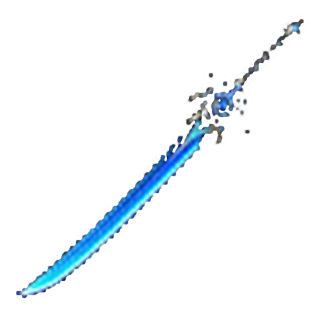
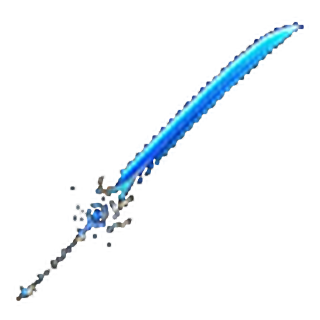
fix(battle-sprite): per-combo component naming, sword orientation bug, asset resync
Reverts the generic BattleIdleSprite.jsx auto-discovery approach in favor of the
project's established per-faction-tier-job file convention: lv1battlearctronwarrior.jsx
dedicated to Arctron Warrior tier1 only, explicitly routed from PilotSprites.jsx with
a static-pose fallback.

Root-caused the "equipped weapon looks wrong" issue: 3 of the 4 randomly-selected
tier-1 sword art variants were authored 180 degrees opposite of sword1.png, so no
single calibration could ever be correct for all of them (this likely also affected
the pre-existing static gear-overlay system). Fixed at the asset level.

animation-lab.html: added a Project-name export prefix so future faction/tier/job
exports don't collide with generic filenames; fixed Apply-To-All-Frames to clone
the layer's image+mask, not just its transform.

Re-synced weapon_shield_layers.json + spritesheet_fixed.png, which had drifted to
mismatched dimensions/frame-counts from parallel manual edits, back to a consistent
pair derived from the latest known-good animation-lab project state.

Changed region(s): [[0.0312, 0.0625, 0.9688, 0.9375], [0.75, 0.4062, 0.7812, 0.4375], [0.2188, 0.5625, 0.25, 0.5938]]

diff --git a/src/components/lv1battlearctronwarrior.jsx b/src/components/lv1battlearctronwarrior.jsx
@@ -1,7 +1,14 @@
 import React, { useEffect, useRef, useState } from 'react'
 import { resolveItemImage } from '../store/gameStore'
 
-// Tier1 Arctron Warrior battle-idle animation
+// Battle-idle animation for Arctron Warrior, tier lv1 only — authored in
+// public/animation-lab.html and exported as a body spritesheet + a JSON of
+// per-frame weapon/shield pixel offsets, so the currently equipped weapon/shield
+// render on top each frame instead of being baked into the body art.
+// Per-combo dedicated file by design (not a shared generic component) — every
+// other race/lane/tier gets its own equivalent file, e.g. lv1battlearctronranger.jsx,
+// lv32battlearctronwarrior.jsx, following the same {tier}{purpose}{race}{lane}.jsx
+// naming convention.
 const BATTLE_DIR = '/assets/arctron/def_warrior_armor_set_lv1/Battle-Sprites-lv1-arctronwarrior'
 const SHEET_URL = `${BATTLE_DIR}/spritesheet_fixed.png`
 const DATA_URL = `${BATTLE_DIR}/weapon_shield_layers.json`
@@ -25,11 +32,11 @@ function loadImage(src) {
   return p
 }
 
-export default function ArctronBattleIdleSprite({ player, width, height, className, style }) {
-  const NATIVE_W = 611, NATIVE_H = 695, TARGET_H = 160
+export default function Lv1BattleArctronWarrior({ player, width = 190, height, className, style, fallback = null }) {
   const canvasRef = useRef(null)
   const [rigData, setRigData] = useState(null)
   const [sheetImg, setSheetImg] = useState(null)
+  const [unavailable, setUnavailable] = useState(false)
   const frameIndexRef = useRef(0)
   const weaponImgRef = useRef(null)
   const shieldImgRef = useRef(null)
@@ -42,20 +49,22 @@ export default function ArctronBattleIdleSprite({ player, width, height, classNa
 
   useEffect(() => {
     let cancelled = false
-    Promise.all([
-      fetch(DATA_URL).then(r => r.json()),
-      loadImage(SHEET_URL)
-    ]).then(([json, img]) => {
-      if (cancelled) return
-      setRigData(json)
-      setSheetImg(img)
-    })
+    fetch(DATA_URL)
+      .then(r => { if (!r.ok) throw new Error('missing rig'); return r.json() })
+      .then(async (json) => {
+        if (cancelled) return
+        const img = await loadImage(SHEET_URL)
+        if (cancelled) return
+        if (!img) { setUnavailable(true); return }
+        setRigData(json)
+        setSheetImg(img)
+      })
+      .catch(() => { if (!cancelled) setUnavailable(true) })
     return () => { cancelled = true }
   }, [])
 
   useEffect(() => {
     let cancelled = false
-    // Load equipped weapon/shield sprites
     const weaponUrl = weaponItem ? proxyUrl(resolveItemImage(weaponItem, race, job, gender) || weaponItem.image) : null
     const shieldUrl = shieldItem ? proxyUrl(resolveItemImage(shieldItem, race, job, gender) || shieldItem.image) : null
     Promise.all([loadImage(weaponUrl), loadImage(shieldUrl)]).then(([w, s]) => {
@@ -81,9 +90,6 @@ export default function ArctronBattleIdleSprite({ player, width, height, classNa
 
     function drawGear(info, img, refWidth) {
       if (!info || !img) return
-      // Calibration was done against a specific reference art asset — normalize by
-      // width ratio so a differently-sized equipped weapon/shield image still lands
-      // at the same effective on-screen footprint instead of the raw calibrated scale.
       const normScale = info.scale * (refWidth / img.naturalWidth)
       ctx.save()
       ctx.translate(info.x, info.y)
@@ -98,11 +104,8 @@ export default function ArctronBattleIdleSprite({ player, width, height, classNa
     function drawFrame(idx) {
       ctx.clearRect(0, 0, fw, fh)
       ctx.drawImage(sheetImg, idx * fw, 0, fw, fh, 0, 0, fw, fh)
-
       const frameData = frames[idx]
       if (!frameData) return
-      // Sandwich order matches the authoring tool: back gear -> (base_front, none
-      // exported yet for this rig) -> front gear.
       if (frameData.weapon && !frameData.weapon.front) drawGear(frameData.weapon, weaponImgRef.current, calibrationRefWeaponWidth || 553)
       if (frameData.shield && !frameData.shield.front) drawGear(frameData.shield, shieldImgRef.current, calibrationRefShieldWidth || 390)
       if (frameData.weapon && frameData.weapon.front) drawGear(frameData.weapon, weaponImgRef.current, calibrationRefWeaponWidth || 553)
@@ -121,16 +124,16 @@ export default function ArctronBattleIdleSprite({ player, width, height, classNa
     return () => cancelAnimationFrame(raf)
   }, [rigData, sheetImg, weaponItem?.id, shieldItem?.id])
 
+  if (unavailable) return fallback
   if (!rigData) return null
 
-  const displayHeight = height || TARGET_H
-  const displayWidth = width || (TARGET_H * NATIVE_W / NATIVE_H)
+  const displayHeight = height || (width * rigData.frameHeight / rigData.frameWidth)
 
   return (
     <canvas
       ref={canvasRef}
       className={className}
-      style={{ width: displayWidth, height: displayHeight, imageRendering: 'auto', ...style }}
+      style={{ width, height: displayHeight, imageRendering: 'auto', ...style }}
     />
   )
 }

diff --git a/src/components/PilotSprites.jsx b/src/components/PilotSprites.jsx
@@ -8,7 +8,7 @@ import ArctronSprite from './ArctronSprite'
 import BionexSprite from './BionexSprite'
 import CelestraSprite from './CelestraSprite'
 import EnemySprite from './EnemySprite'
-import ArctronBattleIdleSprite from './ArctronBattleIdleSprite'
+import Lv1BattleArctronWarrior from './lv1battlearctronwarrior'
 
 // Re-export modular sprites so other files importing from './PilotSprites' don't break
 export { ArctronSprite, BionexSprite, CelestraSprite, EnemySprite }
@@ -183,29 +183,32 @@ export function PilotSprite({ race, job, size = 60, width, height, upperBodyOnly
   }
 
   if (isSelf && player.equipment && showGears) {
-    if (race === 'arctron') {
-      // Tier1 Warrior lane has a battle-idle animation
-      if (isBattle && getJobLane(job) === 'warrior') {
-        return <ArctronBattleIdleSprite player={player} width={width || size} height={height} style={style} />
-      }
-      const overlayBaseSprite = <ArctronSprite job={job} width="100%" height="100%" isBattle={false} />
-      return (
-        <GearOverlay player={player} width={width || size} height={height || size} style={style}>
-          {overlayBaseSprite}
-        </GearOverlay>
-      )
-    }
-    return (
-      <PaperDollStack 
-        baseSprite={baseSprite} 
-        player={player} 
-        size={size} 
-        width={width} 
-        height={height} 
-        style={style} 
-        calibrationOverride={calibrationOverride} 
+    const staticFallback = race === 'arctron' ? (
+      <GearOverlay player={player} width={width || size} height={height || size} style={style}>
+        <ArctronSprite job={job} width="100%" height="100%" isBattle={false} />
+      </GearOverlay>
+    ) : (
+      <PaperDollStack
+        baseSprite={baseSprite}
+        player={player}
+        size={size}
+        width={width}
+        height={height}
+        style={style}
+        calibrationOverride={calibrationOverride}
       />
     )
+
+    // Battle-idle animation: one dedicated component per race+lane+tier (see
+    // lv1battlearctronwarrior.jsx), not a shared generic renderer — add a new
+    // explicit branch + import here as each combo gets authored and exported from
+    // animation-lab.html, following the {tier}{purpose}{race}{lane}.jsx convention
+    // (e.g. lv1battlearctronranger.jsx, lv32battlearctronwarrior.jsx). Each
+    // component falls back to the static pose itself if its own assets 404.
+    if (isBattle && race === 'arctron' && getJobLane(job) === 'warrior') {
+      return <Lv1BattleArctronWarrior player={player} width={width || size} height={height} style={style} fallback={staticFallback} />
+    }
+    return staticFallback
   }
 
   return baseSprite

diff --git a/src/store/gameStore.js b/src/store/gameStore.js
@@ -138,26 +138,21 @@ const ARMOR_SET_LINEAGES = {
 // Resolves the sprite for a bespoke default armor-set piece (arctron/helmet/gloves/boots/pants),
 // keyed by race + job lineage + level tier. Returns null if no bespoke set exists yet for
 // that race/lineage — callers should fall back to `item.image` in that case.
-function resolveArmorSetImage(slot, playerRace, playerJob, level, playerGender) {
+// Shared by resolveArmorSetImage (below) and any battle-sprite folder resolution
+// (ArctronBattleIdleSprite etc.) that needs to land in the exact same
+// def_{lineage}_armor_set_lv{tier} bucket as the character's actual equipped-armor art.
+export function getArmorSetLineageAndTier(playerRace, playerJob, level) {
   let lineage = WARRIOR_JOBS.includes(playerJob) ? 'warrior'
     : TECHNICIAN_JOBS.includes(playerJob) ? 'technician'
     : BOW_JOBS.includes(playerJob) ? 'ranger'
     : STAFF_JOBS.includes(playerJob) ? 'mage'
     : null
-  if (playerRace === 'bionex' && lineage === 'mage') {
-    lineage = 'psion'
-  }
-  if (playerRace === 'bionex' && lineage === 'mage') {
-    lineage = 'psion'
-  }
   if (playerRace === 'bionex') {
     if (lineage === 'warrior') lineage = 'guardian'
     else if (lineage === 'technician' || lineage === 'ranger') lineage = 'marksman'
     else if (lineage === 'mage') lineage = 'psion'
   }
-  if (!lineage) return null
-  const available = ARMOR_SET_LINEAGES[playerRace] || []
-  if (!available.includes(lineage)) return null
+  if (!lineage) return { lineage: null, tier: 1 }
 
   const lvl = level || 1
   let tier = 1
@@ -166,6 +161,14 @@ function resolveArmorSetImage(slot, playerRace, playerJob, level, playerGender) 
   } else {
     tier = lvl >= 66 ? 66 : lvl >= 55 ? 55 : lvl >= 42 ? 42 : lvl >= 32 ? 32 : 1
   }
+  return { lineage, tier }
+}
+
+function resolveArmorSetImage(slot, playerRace, playerJob, level, playerGender) {
+  const { lineage, tier } = getArmorSetLineageAndTier(playerRace, playerJob, level)
+  if (!lineage) return null
+  const available = ARMOR_SET_LINEAGES[playerRace] || []
+  if (!available.includes(lineage)) return null
 
   if (playerRace === 'bionex') {
     return `/assets/bionex/defbionex${lineage}lv${tier}${slot}.png?v=5`

diff --git a/development_journal.md b/development_journal.md
@@ -16,6 +16,12 @@ Starting July 7, 2026, the following rules are enforced for all development and 
 
 ## 📅 Session Chronological Logs
 
+### 🗡 Milestone 191: Battle-Idle Rework — Per-Combo Files, Sword Orientation Fix, Asset Sync [DEPLOYED]
+- **Naming convention correction**: replaced the generic dynamic `BattleIdleSprite.jsx` (auto-discovered assets by race/lineage/tier) with `src/components/lv1battlearctronwarrior.jsx` — sprite/gear components are strictly one dedicated file per faction-tier-job combo (`{tier}{purpose}{race}{lane}.jsx`), matching the existing `ArctronSprite`/`BionexSprite`/`CelestraSprite` split convention. `PilotSprites.jsx` routes to it with an explicit `race === 'arctron' && getJobLane(job) === 'warrior'` condition + a `fallback` prop (renders the existing static `GearOverlay`/`PaperDollStack` pose if this component's own assets 404). Each new combo needs its own new file + explicit import/branch, not a shared generic renderer.
+- **Root-cause fix for "equipped weapon looks wrong" (`public/assets/weapons/defallfactionslv1sword{2,3,4}.png`)**: `resolveItemImage()` picks a pseudo-random variant among 4 tier-1 sword images; visual comparison showed `sword1.png` has hilt bottom-left/tip top-right while `sword2/3/4.png` were all authored 180° opposite. Any single calibration (in animation-lab.html or the pre-existing static `ArctronGearOverlay`, which almost certainly had this same latent bug already) could only be correct for one of the 4 possible appearances. Fixed at the asset level (rotated 3 files 180° via sharp) rather than in code — benefits every consumer of these images, not just the new battle sprite.
+- **animation-lab.html**: added a "Project" name field used as the filename prefix for every export (Save/Export JSON/Spritesheet/Weapon-Shield), so exports are self-describing (`lv1-arctron-warrior-battle-base-back.png` etc.) instead of colliding generic names as more faction/tier/job combos get authored. `applyToAllFrames()` fixed to also clone the layer's image + an independently-copied mask (not just x/y/scale/rotation) — swapping a layer's source image or touching up its erase-transparency on one frame now actually propagates when applied to the rest, instead of only moving the old image's position.
+- **Data/asset sync fix**: found `weapon_shield_layers.json` and `spritesheet_fixed.png` in `Battle-Sprites-lv1-arctronwarrior/` had drifted out of sync (JSON described a 4683×2652×5-frame sheet, actual PNG was 3666×695×6-frame) — almost certainly from parallel manual edits. Re-derived both fresh from the latest known-good animation-lab project state (`sprite_studio_project.json`, confirmed to have the grip-erase transparency work intact) via the same validated export pipeline, producing a consistent 2500×316×5-frame pair. Verified by direct dimension check (PNG width == JSON frameWidth × frameCount) before deploying.
+
 ### 🗡 Milestone 190: Arctron Warrior Battle-Idle Animation (Tier 1) [DEPLOYED]
 - **Authoring tool overhaul (`public/animation-lab.html`)**: matured into a real sprite-sheet factory over this session — layer roles (Base/Weapon/Shield) with a front/back "grip sandwich" so weapon/shield swap independently of the baked body art; auto-snap calibration (Copy From Previous Frame, Apply To All Frames, Keyframe + Interpolate for non-linear motion like a breathing loop); an Asset Library panel (folder drill-down + global search) backed by a new `GET /api/asset-library` route (`server.js`) so gear pieces load by click instead of the OS file picker; Undo/Ctrl+Z with a session-guarded snapshot stack; an Eraser Opacity slider (soft/partial erase, not just a hard cut); manual number-entry paired with every drag slider. Fixed several pre-existing bugs surfaced along the way: `downloadSpritesheet()`'s cell-centering math was clipping ~75% of every exported frame into one corner; the Eraser's click-to-mask-pixel math assumed a horizontal multi-frame strip layout that never matched what was actually drawn, so erasing silently hit the wrong pixels; the Live Preview recomputed canvas size per-frame independently instead of from a shared bounding box, causing visible bobbing during playback.
 - **New runtime component (`src/components/ArctronBattleIdleSprite.jsx`)**: canvas-based 5-frame idle-breathing loop for Arctron Warrior tier 1, reading `public/assets/arctron/battle/warrior_lv1_idle/base_back.png` (flattened body spritesheet) + `weapon_shield_layers.json` (per-frame pixel x/y/scale/rotation). Composites the player's actually-equipped weapon/shield (resolved via `resolveItemImage`) on top each frame, normalized by image-width ratio against the calibration reference art so a differently-sized equipped item still lands at the right on-screen size.
